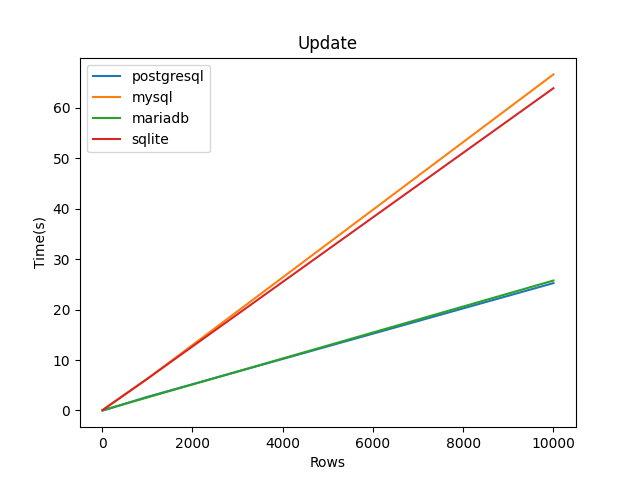
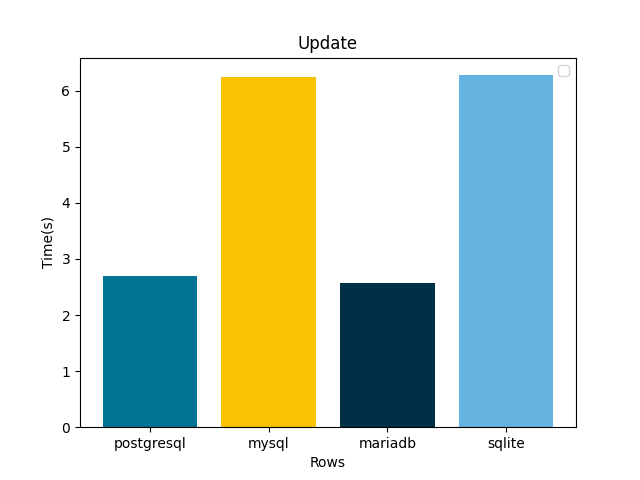
graph updated

diff --git a/tables/check/base.py b/tables/check/base.py
@@ -40,19 +40,25 @@ class CheckBase:
         self.save_file(data)
 
     def create_graph(self):
+        my_colors = ('#047495', '#fac205', '#003045', '#63b2e0')
         fig, ax = plt.subplots()
         ax.set_ylabel('Time(s)')
         ax.set_xlabel('Rows')
+        index = []
+        values = []
         for engine in settings.DB_ENGINES:
             file_name = self.file_name(engine, )
             if not path.isfile(file_name):
                 continue
             with open(file_name, 'r') as fs:
                 data = json.load(fs)
-                x = list(map(lambda item: item['rows'], data))
-                y = list(map(lambda item: item['time'], data))
-                ax.plot(x, y, label=engine)
+                # x = list(map(lambda item: item['rows'], data))
+                # y = list(map(lambda item: item['time'], data))
+                values.append(data[0]['time'])
+                index.append(engine)
+                # ax.plot(x, y, label=engine)
         ax.set_title(self.graph_title)
+        ax.bar(index, values, color=my_colors)
         ax.legend()
         file_name = path.join(settings.BASE_DIR, f'reports/graphs/{self.name}.png')
         plt.savefig(path.join(settings.BASE_DIR, f'reports/graphs/{self.name}.png'), format='png')

diff --git a/benchmark/settings.py b/benchmark/settings.py
@@ -152,5 +152,5 @@ STATIC_URL = '/static/'
 
 DEFAULT_AUTO_FIELD = 'django.db.models.BigAutoField'
 
-ROWS_LIST = [10, 100, 1000, 10000]
+ROWS_LIST = (1000,)
 DB_ENGINES = ['postgresql', 'mysql', 'mariadb', 'sqlite']
